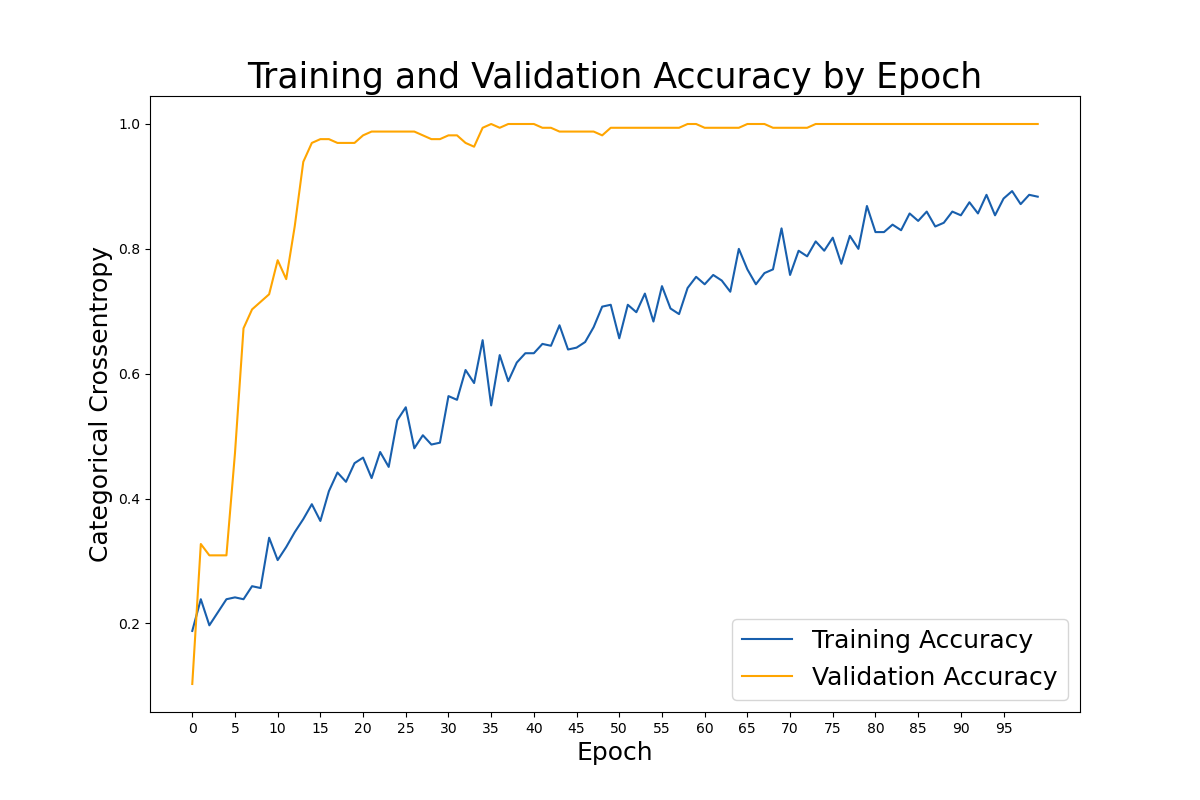
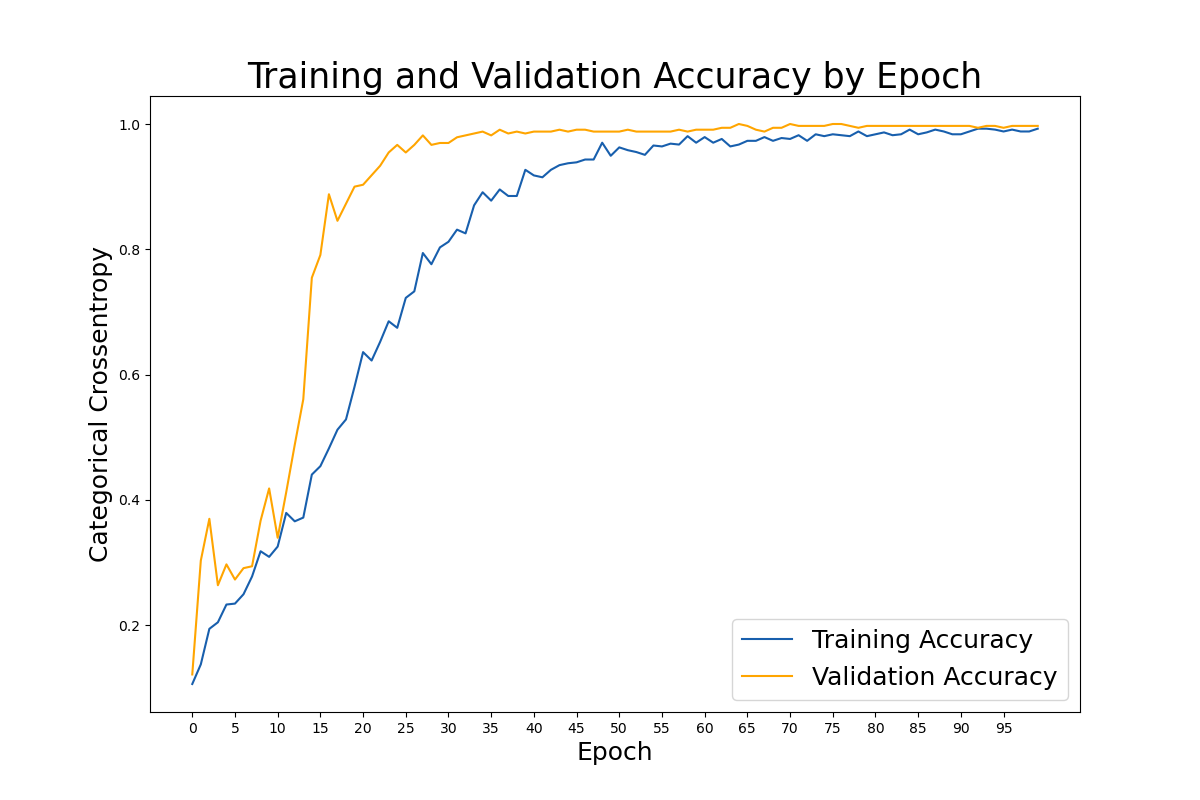
Initial Commit to Push Data

diff --git a/load_train.py b/load_train.py
@@ -95,7 +95,7 @@ files = []
 labels = []
 
 # Parallel(n_jobs=4)(delayed(load_data)(x) for x in progressbar.progressbar(persons[:500]))
-for x in progressbar.progressbar(persons[:5000]):
+for x in progressbar.progressbar(persons[:1000]):
     load_data(x)
     #print(x,os.path.basename(x).split("-")[0])
     #files.append(extract_features(x))
@@ -114,7 +114,7 @@ labels = np.array(labels)
 X_train, X_test, y_train, y_test = split_data(files,labels)
 
 model = define_model(classes=classes)
-history = model.fit(X_train, y_train, batch_size=256, epochs=100,
+history = model.fit(X_train, y_train, batch_size=32, epochs=100,
                     validation_data=(X_test, y_test))
 
 # Check out our train accuracy and validation accuracy over epochs.
